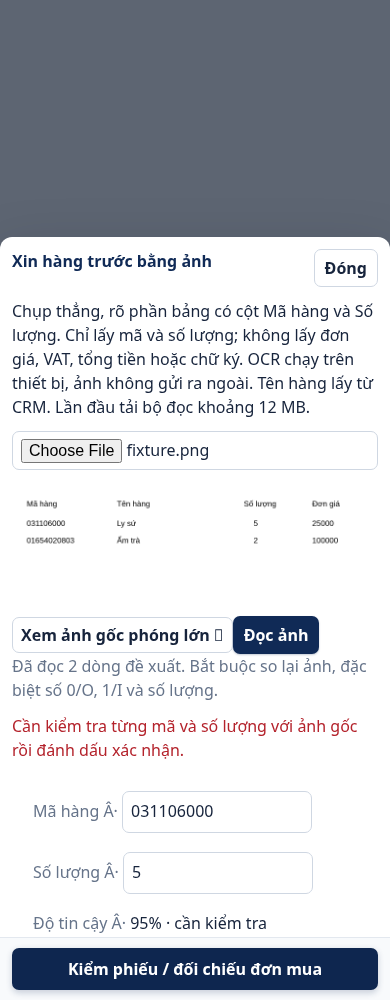
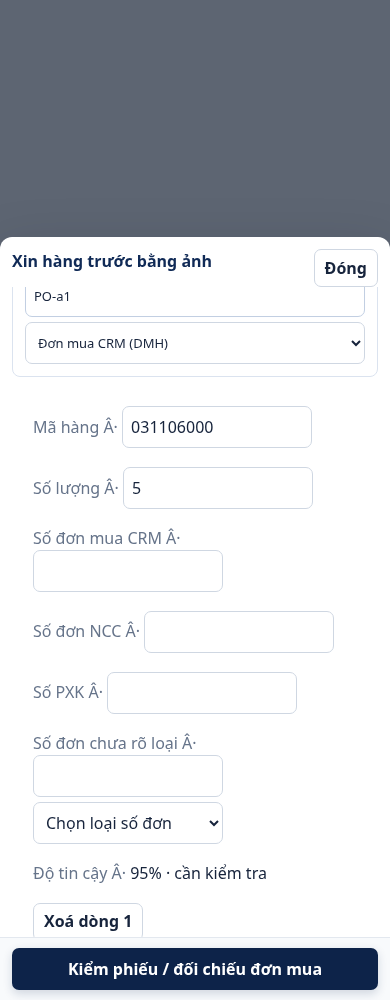
feat(purchasing): read and review order numbers and PXK from photos

diff --git a/trial-ui/purchase-early-photo.js b/trial-ui/purchase-early-photo.js
@@ -1,40 +1,51 @@
 import {recognizeEarlyPhoto,extractEarlyPhotoRows} from './early-photo-ocr.js';
 import {openEarlyRequestFile,parseEarlyRequestSheet,EARLY_FILE_HEADER} from './purchase-early-file.js';
+export function photoRequestRows(rows,common={}){return rows.map(row=>{
+ const out={...row};for(const key of ['orderNo','supplierOrderNo','pxkNo'])out[key]=row[key]||common[key]||'';
+ const reference=row.orderReference||(!(row.orderNo||row.supplierOrderNo)?common.orderReference:'')||'',type=row.orderReference?row.referenceType:common.referenceType;
+ if(reference){if(!['crm','supplier'].includes(type))throw Error('Số đơn '+reference+': chọn loại Đơn mua CRM hoặc Đơn NCC trước khi kiểm phiếu.');const key=type==='crm'?'orderNo':'supplierOrderNo';if(out[key]&&out[key]!==reference)throw Error('Số đơn '+reference+' khác số đã nhập. Kiểm tra lại trước khi gán.');out[key]=reference;}return out;
+});}
 const node=(tag,text='')=>{const n=document.createElement(tag);n.textContent=text;return n;};
 export function openEarlyRequestPhoto(options,{recognize=recognizeEarlyPhoto}={}){
  const dialog=node('dialog');dialog.className='modal early-request-dialog early-photo-dialog';
  const head=node('div'),body=node('div'),foot=node('div');head.className='modal-head';body.className='modal-body';foot.className='modal-foot';
  const button=(text,fn)=>{const b=node('button',text);b.type='button';b.className='btn secondary';b.onclick=fn;return b;};
- let busy=false,rows=[],url='',controller=null,confirmed=false;
+ let busy=false,rows=[],url='',controller=null,confirmed=false,common={},conflicts=[];
  const close=button('Đóng',()=>{if(busy){controller?.abort();return;}if(rows.length&&!confirmed&&!confirm('Đóng và bỏ phần ảnh đang kiểm tra?'))return;dialog.close();});
  head.append(node('h2','Xin hàng trước bằng ảnh'),close);
  const file=node('input');file.type='file';file.accept='image/jpeg,image/png,image/webp';file.setAttribute('aria-label','Ảnh phiếu xin hàng');
  const photo=node('img');photo.alt='Ảnh gốc để đối chiếu mã hàng và số lượng';photo.hidden=true;
  const full=node('a','Xem ảnh gốc phóng lớn ↗');full.target='_blank';full.rel='noopener';full.className='btn secondary small';full.hidden=true;
  const status=node('p'),error=node('p');status.className='muted small';status.setAttribute('role','status');error.className='error';error.setAttribute('role','alert');
- const table=node('table');table.className='data-table';const tableHead=node('thead'),tr=node('tr'),tbody=node('tbody');for(const t of ['Mã hàng *','Số lượng *','Độ tin cậy OCR',''])tr.append(node('th',t));tableHead.append(tr);table.append(tableHead,tbody);const wrap=node('div');wrap.className='table-wrap';wrap.append(table);
- const check=node('input');check.type='checkbox';check.setAttribute('aria-label','Đã kiểm tra mã hàng và số lượng với ảnh gốc');const checked=node('label');checked.className='early-photo-confirm';checked.append(check,document.createTextNode(' Tôi đã kiểm đủ các dòng, mã hàng và số lượng với ảnh gốc.'));
+ const table=node('table');table.className='data-table';const tableHead=node('thead'),tr=node('tr'),tbody=node('tbody');for(const t of ['Mã hàng *','Số lượng *','Đơn mua CRM','Đơn NCC','Số PXK','Số đơn chưa rõ loại','Độ tin cậy OCR',''])tr.append(node('th',t));tableHead.append(tr);table.append(tableHead,tbody);const wrap=node('div');wrap.className='table-wrap';wrap.append(table);
+ const check=node('input');check.type='checkbox';check.setAttribute('aria-label','Đã kiểm tra mã hàng và số lượng với ảnh gốc');const checked=node('label');checked.className='early-photo-confirm';checked.append(check,document.createTextNode(' Tôi đã kiểm đủ các dòng, mã hàng, số lượng, số đơn và số PXK với ảnh gốc.'));
  function invalidate(){check.checked=false;confirmed=false;}
+ const referenceFields=node('fieldset');referenceFields.className='early-photo-references';referenceFields.append(node('legend','Số chứng từ chung — áp dụng cho dòng để trống'));
+ function referenceType(target,label){const select=node('select');select.setAttribute('aria-label',label);for(const [value,text]of [['','Chọn loại số đơn'],['crm','Đơn mua CRM (DMH)'],['supplier','Số đơn của NCC']]){const option=node('option',text);option.value=value;select.append(option);}select.value=target.referenceType||'';select.onchange=()=>{target.referenceType=select.value;invalidate();};return select;}
+ const commonInputs={};for(const [key,name]of [['orderNo','Số đơn mua CRM chung'],['supplierOrderNo','Số đơn NCC chung'],['pxkNo','Số PXK chung'],['orderReference','Số đơn chưa rõ loại chung']]){const label=node('label',name),input=node('input');input.type='text';input.maxLength=200;input.setAttribute('aria-label',name);input.oninput=()=>{common[key]=input.value.trim();invalidate();};commonInputs[key]=input;label.append(input);if(key==='orderReference')label.append(referenceType(common,'Loại số đơn chung'));referenceFields.append(label);}
+ function setCommon(value={}){Object.keys(common).forEach(key=>delete common[key]);Object.assign(common,value);for(const [key,input]of Object.entries(commonInputs))input.value=common[key]||'';referenceFields.querySelector('select').value='';}
  function render(){tbody.replaceChildren();for(const [i,row]of rows.entries()){
-  const tr=node('tr');for(const [key,name]of [['sku','Mã hàng'],['quantity','Số lượng']]){const td=node('td'),input=node('input');input.type='text';input.value=row[key];input.maxLength=key==='sku'?100:15;if(key==='quantity')input.inputMode='numeric';input.setAttribute('aria-label',name+' dòng '+(i+1));input.oninput=()=>{row[key]=input.value.trim();invalidate();};td.dataset.label=name;td.append(input);tr.append(td);}
+  const tr=node('tr');for(const [key,name]of [['sku','Mã hàng'],['quantity','Số lượng'],['orderNo','Số đơn mua CRM'],['supplierOrderNo','Số đơn NCC'],['pxkNo','Số PXK'],['orderReference','Số đơn chưa rõ loại']]){const td=node('td'),input=node('input');input.type='text';input.value=row[key]||'';input.maxLength=key==='sku'?100:key==='quantity'?15:200;if(key==='quantity')input.inputMode='numeric';input.setAttribute('aria-label',name+' dòng '+(i+1));input.oninput=()=>{row[key]=input.value.trim();invalidate();};td.dataset.label=name;td.append(input);if(key==='orderReference')td.append(referenceType(row,'Loại số đơn dòng '+(i+1)));tr.append(td);}
   const confidence=node('td',row.confidence===undefined?'Nhập tay':Math.round(row.confidence)+'% · cần kiểm tra');confidence.dataset.label='Độ tin cậy';tr.append(confidence);const td=node('td');td.append(button('Xoá dòng '+(i+1),()=>{rows.splice(i,1);invalidate();render();}));tr.append(td);tbody.append(tr);
  }}
  const add=button('＋ Thêm dòng',()=>{if(rows.length>=300){error.textContent='Tối đa 300 dòng.';return;}rows.push({sku:'',quantity:''});invalidate();render();});
  const read=button('Đọc ảnh',async()=>{
-  if(busy||!file.files?.[0])return;busy=true;controller=new AbortController();file.disabled=read.disabled=add.disabled=next.disabled=true;check.disabled=true;close.textContent='Dừng đọc ảnh';error.textContent='';invalidate();rows=[];render();
-  try{const data=await recognize(file.files[0],{signal:controller.signal,progress:text=>{status.textContent=text;}});if(!dialog.open)return;const result=extractEarlyPhotoRows(data);rows=result.rows;status.textContent=result.message;if(!rows.length)rows=[{sku:'',quantity:''}];render();}
+  if(busy||!file.files?.[0])return;busy=true;controller=new AbortController();file.disabled=read.disabled=add.disabled=next.disabled=true;check.disabled=true;close.textContent='Dừng đọc ảnh';error.textContent='';invalidate();rows=[];setCommon();conflicts=[];for(const n of referenceFields.querySelectorAll('input,select'))n.disabled=true;render();
+  try{const data=await recognize(file.files[0],{signal:controller.signal,progress:text=>{status.textContent=text;}});if(!dialog.open)return;const result=extractEarlyPhotoRows(data);rows=result.rows;setCommon(result.document);conflicts=result.conflicts||[];status.textContent=result.message;if(!rows.length)rows=[{sku:'',quantity:''}];render();}
   catch(e){error.textContent=e.message||'Không đọc được ảnh. Thử ảnh rõ hơn.';status.textContent='Chưa tạo hoặc gửi phiếu.';}
-  finally{busy=false;file.disabled=read.disabled=add.disabled=next.disabled=check.disabled=false;close.textContent='Đóng';controller=null;}
+  finally{busy=false;file.disabled=read.disabled=add.disabled=next.disabled=check.disabled=false;close.textContent='Đóng';controller=null;for(const n of referenceFields.querySelectorAll('input,select'))n.disabled=false;}
  });read.className='btn primary';
  const next=button('Kiểm phiếu / đối chiếu đơn mua',()=>{
   if(busy)return;error.textContent='';
-  if(!check.checked){error.textContent='Cần kiểm tra từng mã và số lượng với ảnh gốc rồi đánh dấu xác nhận.';return;}
-  const parsed=parseEarlyRequestSheet([EARLY_FILE_HEADER,...rows.map(r=>[r.sku,r.quantity,'','',''])]);
+  if(!check.checked){error.textContent='Cần kiểm tra mã, số lượng, số đơn và số PXK với ảnh gốc rồi đánh dấu xác nhận.';return;}
+  if(conflicts.some(key=>!common[key]&&!rows.every(row=>row[key]))){error.textContent='Có nhiều số chứng từ khác nhau trong ảnh. Điền lại số chung hoặc số riêng cho từng dòng trước khi kiểm phiếu.';return;}
+  let resolved;try{resolved=photoRequestRows(rows,common);}catch(e){error.textContent=e.message;return;}
+  const parsed=parseEarlyRequestSheet([EARLY_FILE_HEADER,...resolved.map(r=>[r.sku,r.quantity,r.orderNo,r.supplierOrderNo,r.pxkNo])]);
   if(parsed.errors.length){error.textContent=parsed.errors.join('\n');return;}
   confirmed=true;dialog.close();openEarlyRequestFile({...options,initialRows:parsed.lines});
  });next.className='btn primary';
- file.onchange=()=>{invalidate();rows=[];render();error.textContent=status.textContent='';if(url)URL.revokeObjectURL(url);url='';photo.hidden=full.hidden=true;const f=file.files?.[0];if(!f)return;if(!['image/jpeg','image/png','image/webp'].includes(f.type)||f.size>10485760||!f.size){error.textContent='Chọn JPG, PNG hoặc WebP tối đa 10 MB. HEIC cần đổi sang JPG.';file.value='';return;}url=URL.createObjectURL(f);photo.src=full.href=url;photo.hidden=full.hidden=false;};
- body.append(node('p','Chụp thẳng, rõ phần bảng có cột Mã hàng và Số lượng. Chỉ lấy mã và số lượng; không lấy đơn giá, VAT, tổng tiền hoặc chữ ký. OCR chạy trên thiết bị, ảnh không gửi ra ngoài. Tên hàng lấy từ CRM. Lần đầu tải bộ đọc khoảng 12 MB.'),file,photo,full,read,status,error,wrap,add,checked,node('p','Bước sau chọn NCC/ngày lấy, đối chiếu đơn mua còn hàng và lưu nháp như nhập file. Chưa gửi NCC, chưa nhận hàng và chưa cộng kho.'));
+ file.onchange=()=>{invalidate();rows=[];setCommon();conflicts=[];render();error.textContent=status.textContent='';if(url)URL.revokeObjectURL(url);url='';photo.hidden=full.hidden=true;const f=file.files?.[0];if(!f)return;if(!['image/jpeg','image/png','image/webp'].includes(f.type)||f.size>10485760||!f.size){error.textContent='Chọn JPG, PNG hoặc WebP tối đa 10 MB. HEIC cần đổi sang JPG.';file.value='';return;}url=URL.createObjectURL(f);photo.src=full.href=url;photo.hidden=full.hidden=false;};
+ body.append(node('p','Chụp thẳng, rõ phần bảng có cột Mã hàng và Số lượng. Đọc mã hàng, số lượng, số đơn và số PXK; không lấy đơn giá, VAT, tổng tiền hoặc chữ ký. OCR chạy trên thiết bị, ảnh không gửi ra ngoài. Tên hàng lấy từ CRM. Lần đầu tải bộ đọc khoảng 12 MB.'),file,photo,full,read,status,error,referenceFields,wrap,add,checked,node('p','Bước sau chọn NCC/ngày lấy, đối chiếu đơn mua còn hàng và lưu nháp như nhập file. Chưa gửi NCC, chưa nhận hàng và chưa cộng kho.'));
  foot.append(next);dialog.append(head,body,foot);document.body.append(dialog);
  dialog.addEventListener('cancel',e=>{e.preventDefault();close.click();});dialog.addEventListener('close',()=>{controller?.abort();if(url)URL.revokeObjectURL(url);photo.removeAttribute('src');dialog.remove();},{once:true});dialog.showModal();return dialog;
 }

diff --git a/trial-ui/early-photo-ocr.js b/trial-ui/early-photo-ocr.js
@@ -27,9 +27,29 @@ export async function recognizeEarlyPhoto(file,{progress=()=>{},signal}={}){
  finally{clearTimeout(timeout);signal?.removeEventListener('abort',stop);await worker?.terminate();canvas.width=canvas.height=0;}
 }
 const fold=s=>String(s).normalize('NFD').replace(/[\u0300-\u036f]/g,'').replace(/đ/gi,'d').toLowerCase().replace(/[^a-z0-9]/g,'');
-/** Read only explicitly headed SKU/quantity columns; never guess a quantity from prices/totals. */
+const referenceLabels={orderNo:['sodonmuacrm','sodoncrm','madoncrm','dmh'],supplierOrderNo:['donncc','sodonncc','sodoncuancc','madonncc'],pxkNo:['sopxk','pxk','sophieuxuatkho'],orderReference:['sodonhang','madonhang','sodon','madon','donhang','sodh']};
+export function extractPhotoReferences(lines){
+ const values=Object.fromEntries(Object.keys(referenceLabels).map(k=>[k,new Set()]));
+ for(const line of lines){
+  const text=(line.text||(line.words||[]).map(w=>w.text).join(' ')).normalize('NFD').replace(/[\u0300-\u036f]/g,'').replace(/đ/gi,'d');
+  const re=/(?:^|\s)((?:So|Ma)\s+(?:don\s+mua\s+CRM|don\s+CRM|don\s+(?:cua\s+)?NCC|don\s+hang|don|PXK|phieu\s+xuat\s+kho)|PXK|DMH|Don\s+hang|So\s+DH)\s*[:#]\s*([A-Za-z0-9][A-Za-z0-9._/-]{0,199})(?=\s|$)/gi;
+  for(const match of text.matchAll(re)){const key=Object.keys(referenceLabels).find(k=>referenceLabels[k].includes(fold(match[1])));if(key)values[key].add(match[2]);}
+ }
+ const document={},conflicts=[];for(const [key,set]of Object.entries(values)){document[key]=set.size===1?[...set][0]:'';if(set.size>1)conflicts.push(key);}
+ return {document,conflicts};
+}
+function referenceColumns(words){
+ const found={},ambiguous=new Set();for(let i=0;i<words.length;i++)for(let n=1;n<=5&&i+n<=words.length;n++){
+  const part=words.slice(i,i+n),key=Object.keys(referenceLabels).find(k=>referenceLabels[k].includes(fold(part.map(w=>w.text).join(' '))));
+  if(key&&!ambiguous.has(key)){const x=part[0].bbox.x0,end=part.at(-1).bbox.x1,prior=found[key];if(!prior||x===prior.x)found[key]={x,end};else if(x>prior.end){found[key]=null;ambiguous.add(key);}}
+ }
+ // Explicit CRM/NCC headings take precedence over their shorter generic prefix.
+ if(found.orderReference&&[found.orderNo,found.supplierOrderNo].some(v=>v?.x===found.orderReference.x))delete found.orderReference;
+ return found;
+}
+/** Read explicitly headed columns plus labelled document references; never infer IDs from amounts. */
 export function extractEarlyPhotoRows(data){
- const lines=(data.blocks||[]).flatMap(b=>(b.paragraphs||[]).flatMap(p=>p.lines||[]));let columns=null,headerY=0;
+ const lines=(data.blocks||[]).flatMap(b=>(b.paragraphs||[]).flatMap(p=>p.lines||[]));const references=extractPhotoReferences(lines);let columns=null,headerY=0;
  for(const line of lines){const words=line.words||[],sku=[],qty=[];
   for(let i=0;i<words.length;i++)for(let n=1;n<=3&&i+n<=words.length;n++){
    const part=words.slice(i,i+n),key=fold(part.map(w=>w.text).join(' '));
@@ -37,9 +57,9 @@ export function extractEarlyPhotoRows(data){
    if(['soluong','sl','slxuat','slxin'].includes(key))qty.push({x:part[0].bbox.x0,end:part.at(-1).bbox.x1});
   }
   const unique=a=>a.filter((x,i)=>!a.slice(0,i).some(v=>Math.abs(v.x-x.x)<12));const s=unique(sku),q=unique(qty);
-  if(s.length===1&&q.length===1){columns={sku:s[0],qty:q[0],words};headerY=line.bbox?.y1||words[0]?.bbox.y1||0;break;}
+  if(s.length===1&&q.length===1){columns={sku:s[0],qty:q[0],words,...referenceColumns(words)};headerY=line.bbox?.y1||words[0]?.bbox.y1||0;break;}
  }
- if(!columns)return {rows:[],message:'Không xác định chắc chắn cột Mã hàng và Số lượng. Nhập/sửa dòng bên dưới; không tự lấy số tiền làm số lượng.'};
+ if(!columns)return {rows:[],...references,message:'Không xác định chắc chắn cột Mã hàng và Số lượng. Nhập/sửa dòng bên dưới; không tự lấy số tiền làm số lượng.'};
  const centers=columns.words.map(w=>({text:fold(w.text),x:w.bbox.x0}));
  const nextX=centers.filter(w=>w.x>columns.qty.x+12&& !['luong','xuat','xin'].includes(w.text)).map(w=>w.x).sort((a,b)=>a-b)[0]??Infinity;
  const skuEnd=centers.filter(w=>w.x>columns.sku.end+8).map(w=>w.x).sort((a,b)=>a-b)[0]??columns.qty.x;
@@ -49,8 +69,12 @@ export function extractEarlyPhotoRows(data){
   const quantities=words.filter(w=>w.bbox.x0>=columns.qty.x-18&&w.bbox.x0<nextX-5);
   if(code.length!==1||!/[0-9]/.test(code[0].text)||!/^[A-Za-z0-9][A-Za-z0-9._/-]{1,99}$/.test(code[0].text))continue;
   const quantity=quantities.length===1?quantities[0].text:'';
-  rows.push({sku:code[0].text,quantity:/^[0-9]+$/.test(quantity)?quantity:'',confidence:Math.min(code[0].confidence??0,quantities[0]?.confidence??0)});
+  const refs={};for(const key of Object.keys(referenceLabels)){const c=columns[key];if(!c)continue;
+   const end=centers.filter(w=>w.x>c.end+8).map(w=>w.x).sort((a,b)=>a-b)[0]??Infinity;
+   const tokens=words.filter(w=>w.bbox.x0>=c.x-15&&w.bbox.x0<end-5);refs[key]=tokens.length===1&&/^[A-Za-z0-9][A-Za-z0-9._/-]{0,199}$/.test(tokens[0].text)?tokens[0].text:'';
+  }
+  rows.push({sku:code[0].text,quantity:/^[0-9]+$/.test(quantity)?quantity:'',...refs,confidence:Math.min(code[0].confidence??0,quantities[0]?.confidence??0)});
   if(rows.length>300)throw Error('Ảnh vượt 300 dòng. Tách ảnh thành nhiều phiếu.');
  }
- return {rows,message:rows.length?'Đã đọc '+rows.length+' dòng đề xuất. Bắt buộc so lại ảnh, đặc biệt số 0/O, 1/I và số lượng.':'Không đọc được dòng chắc chắn; nhập lại từ ảnh ở bảng bên dưới.'};
+ return {rows,...references,message:(rows.length?'Đã đọc '+rows.length+' dòng đề xuất. Bắt buộc so lại ảnh, mã hàng, số lượng, số đơn và số PXK.':'Không đọc được dòng chắc chắn; nhập lại từ ảnh ở bảng bên dưới.')+(references.conflicts.length?' Có số chứng từ mâu thuẫn: cần nhập lại, không tự chọn một số.':'')};
 }

diff --git a/tests/app/early-photo-ocr.test.ts b/tests/app/early-photo-ocr.test.ts
@@ -12,3 +12,18 @@ test('photo extractor reads explicit columns and preserves zeroes without guessi
  assert.equal(extractEarlyPhotoRows(data([[word('031059000B2',20,10),word('12',510,10),word('25000',710,10)]])).rows.length,0);
  const ambiguous=[...header,word('SL',900,10)];assert.equal(extractEarlyPhotoRows(data([ambiguous,[word('031059000B2',20,40),word('12',510,40)]])).rows.length,0);
 });
+// @ts-ignore Browser module, pure payload mapping.
+import {photoRequestRows} from '../../trial-ui/purchase-early-photo.js';
+test('document refs are labelled, preserve zeros, refuse conflicts and require generic order classification',()=>{
+ const d=extractEarlyPhotoRows(data([[word('Số PXK: 000123',20,0)],[word('Số đơn hàng: NCC-0007',20,20)],[word('Mã',20,50),word('hàng',45,50),word('Số',500,50),word('lượng',525,50)],[word('031106000',20,80),word('5',510,80)]]));
+ assert.equal(d.document.pxkNo,'000123');assert.equal(d.document.orderReference,'NCC-0007');
+ assert.throws(()=>photoRequestRows(d.rows,d.document),/chọn loại/);
+ assert.deepEqual(photoRequestRows(d.rows,{...d.document,referenceType:'supplier'}).map((r:any)=>[r.sku,r.pxkNo,r.orderNo,r.supplierOrderNo]),[['031106000','000123','','NCC-0007']]);
+ const conflict=extractEarlyPhotoRows(data([[word('Số PXK: 0001',20,10)],[word('Số PXK: 0002',20,30)]]));assert.equal(conflict.document.pxkNo,'');assert.deepEqual(conflict.conflicts,['pxkNo']);
+ assert.throws(()=>photoRequestRows([{sku:'001',quantity:'1',orderNo:'DMH-1',orderReference:'DMH-2',referenceType:'crm'}]),/khác số/);
+});
+test('row reference columns keep separate purchase orders and PXKs instead of applying one to every line',()=>{
+ const d=extractEarlyPhotoRows(data([[word('SKU',20,10),word('SL',200,10),word('Đơn',400,10),word('NCC',435,10),word('Số',700,10),word('PXK',725,10)],[word('031106000',20,40),word('5',210,40),word('A-001',410,40),word('0001',710,40)],[word('01654020803',20,70),word('2',210,70),word('A-002',410,70),word('0002',710,70)]]));
+ assert.deepEqual(d.rows.map((r:any)=>[r.supplierOrderNo,r.pxkNo]),[['A-001','0001'],['A-002','0002']]);
+ const mapped=photoRequestRows(d.rows,{pxkNo:'DEFAULT'});assert.deepEqual(mapped.map((r:any)=>r.pxkNo),['0001','0002']);
+});

diff --git a/trial-ui/early-request-page.css b/trial-ui/early-request-page.css
@@ -46,3 +46,4 @@ dialog.early-quick-receipt > form { display:flex;flex-direction:column;min-heigh
 @media(max-width:600px){ .early-quick-quantities { grid-template-columns:minmax(0,1fr); } }
 
 .early-photo-dialog .modal-body > img{display:block;max-width:100%;max-height:340px;object-fit:contain;margin:12px auto}.early-photo-dialog .modal-body > img[hidden]{display:none}.early-photo-dialog td input{min-width:100px;max-width:190px;width:100%}.early-photo-confirm{display:flex;gap:10px;align-items:center;margin-top:16px}.early-photo-confirm input{width:auto;flex:none}
+.early-photo-references{display:grid;grid-template-columns:repeat(auto-fit,minmax(200px,1fr));gap:12px;margin:12px 0;padding:12px;border:1px solid #dbe3ef;border-radius:8px}.early-photo-references label{display:grid;gap:5px;font-size:13px}.early-photo-dialog td select{max-width:190px;width:100%;margin-top:5px}
